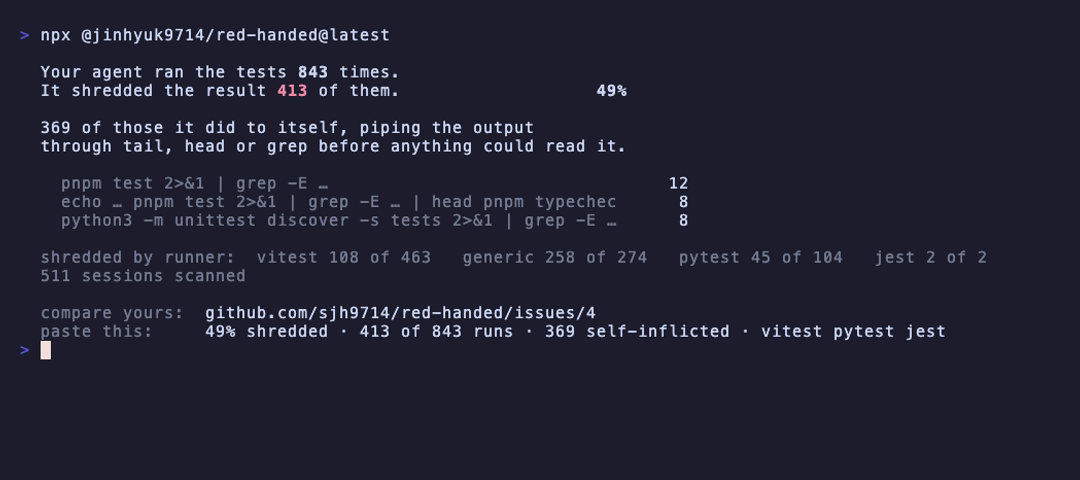
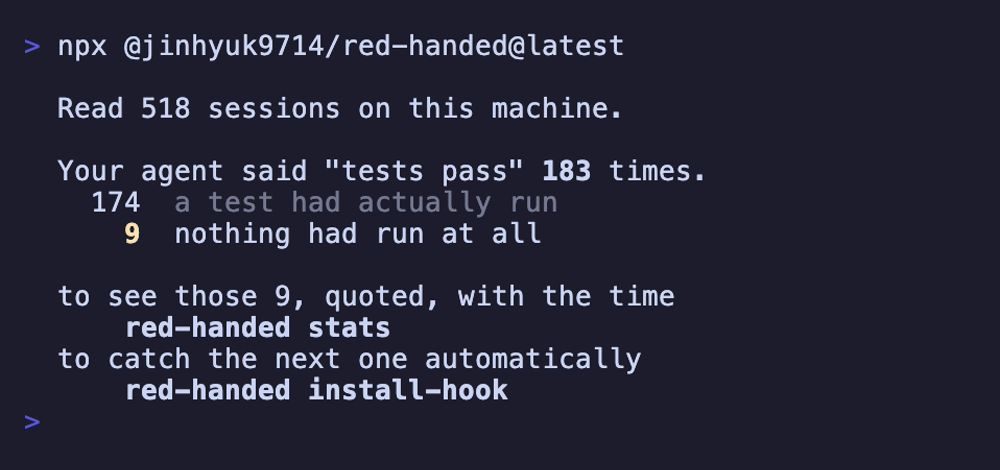
Record the front screen for real, in a font a feed can read
The GIF now shows the published 0.3.0 default command against my own
machine: 518 sessions, 183 claims, 9 with nothing behind them. The
README numbers match the recording.

diff --git a/README.ko.md b/README.ko.md
@@ -16,7 +16,7 @@
 </p>
 
 <p align="center">
-  <img src="docs/demo.gif" width="880" alt="npx @jinhyuk9714/red-handed 실행 장면. 세션 513개를 읽고, 테스트 통과 주장 183번 중 9번은 아무것도 돌지 않았다고 보여준다">
+  <img src="docs/demo.gif" width="880" alt="npx @jinhyuk9714/red-handed 실행 장면. 세션 518개를 읽고, 테스트 통과 주장 183번 중 9번은 아무것도 돌지 않았다고 보여준다">
 </p>
 
 명령 하나면 됩니다.
@@ -25,7 +25,7 @@
 npx @jinhyuk9714/red-handed@latest
 ```
 
-제 컴퓨터에서는 세션 513개를 읽었고, 에이전트가 "테스트 통과"라고 183번 말했는데
+제 컴퓨터에서는 세션 518개를 읽었고, 에이전트가 "테스트 통과"라고 183번 말했는데
 그중 9번은 아무것도 돌지 않았습니다. **당신 것은 몇 번인가요?**
 
 이미 디스크에 있는 Claude Code 세션 기록과 git 상태만 읽습니다. 계정도 API 키도

diff --git a/README.md b/README.md
@@ -16,7 +16,7 @@
 </p>
 
 <p align="center">
-  <img src="docs/demo.gif" width="880" alt="Running npx @jinhyuk9714/red-handed. It reads 513 sessions, finds 183 claims that the tests pass, and shows that 9 of them had no run behind them">
+  <img src="docs/demo.gif" width="880" alt="Running npx @jinhyuk9714/red-handed. It reads 518 sessions, finds 183 claims that the tests pass, and shows that 9 of them had no run behind them">
 </p>
 
 One command:
@@ -25,7 +25,7 @@ One command:
 npx @jinhyuk9714/red-handed@latest
 ```
 
-On my machine it read 513 sessions. My agent said "tests pass" 183 times.
+On my machine it read 518 sessions. My agent said "tests pass" 183 times.
 9 of those times, nothing had run at all. **What does yours say?**
 
 It reads the Claude Code session logs already on your disk, plus your git
